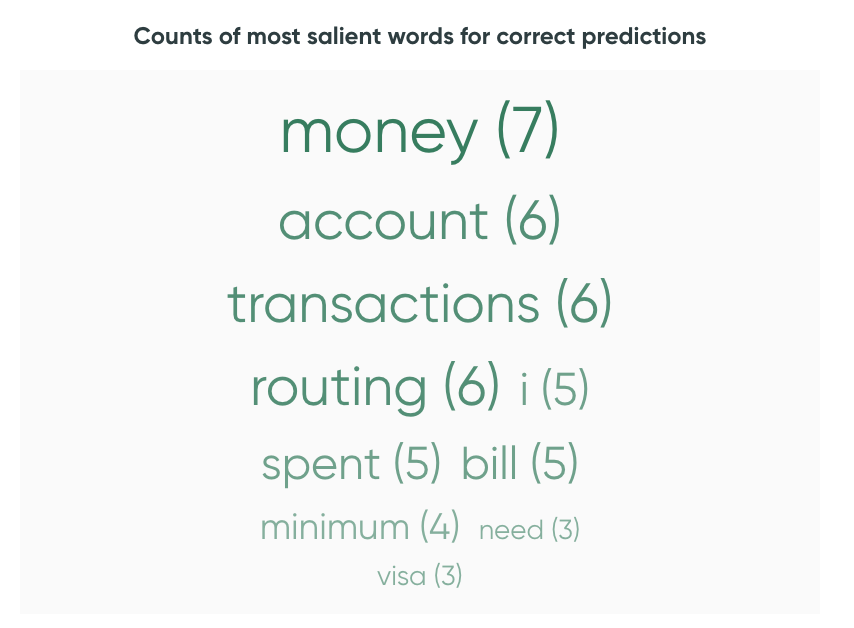
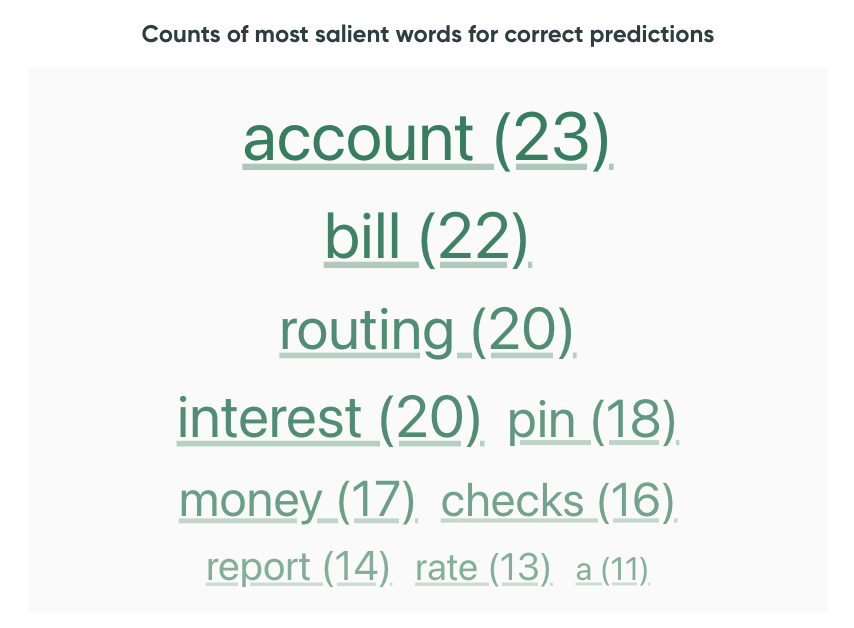
Polish top words links (#60)
* Clean up using destructuring assignment to avoid repeating `wordCount` 5 times
* Make clicking a top word a second time clear search
* Double underline of selected top word
* Document top words links
* Update screenshot
* Fix link styling in table rows

diff --git a/webapp/src/components/TopWords/TopWords.tsx b/webapp/src/components/TopWords/TopWords.tsx
@@ -77,33 +77,32 @@ const TopWords: React.FC<Props> = ({
             No word count data.
           </Typography>
         ) : (
-          wordCounts.map((wordCount, index) => (
+          wordCounts.map(({ word, count }, index) => (
             <Link
               key={index}
               component={RouterLink}
               to={`${baseUrl}${constructSearchString({
                 ...filters,
-                utterance: wordCount.word,
+                utterance: filters.utterance === word ? undefined : word,
                 ...pagination,
                 ...pipeline,
               })}`}
               color={theme.palette[palette].dark}
               display="block"
               fontSize={`${Math.max(
-                maxFontSizeInEm * wordCount.count * normalizingScaleFactor,
+                maxFontSizeInEm * count * normalizingScaleFactor,
                 minFontSizeInEm
               )}em`}
               marginLeft={1}
               marginRight={1}
               sx={{
-                opacity: Math.max(
-                  wordCount.count * normalizingScaleFactor,
-                  minOpacity
-                ),
+                opacity: Math.max(count * normalizingScaleFactor, minOpacity),
+                textDecorationStyle:
+                  filters.utterance === word ? "double" : undefined,
               }}
               whiteSpace="nowrap"
             >
-              {`${wordCount.word} (${wordCount.count})`}
+              {`${word} (${count})`}
             </Link>
           ))
         )}

diff --git a/webapp/src/components/Analysis/UtterancesTable.tsx b/webapp/src/components/Analysis/UtterancesTable.tsx
@@ -336,7 +336,7 @@ const UtterancesTable: React.FC<Props> = ({
   const searchString = constructSearchString(pipeline);
   const RowLink = (props: RowProps<Row>) => (
     <Link
-      style={{ color: "unset" }}
+      style={{ color: "unset", textDecoration: "unset" }}
       to={`/${jobId}/dataset_splits/${datasetSplitName}/utterances/${props.row.id}${searchString}`}
     >
       <GridRow {...props} />

diff --git a/webapp/src/components/Utterance/SimilarUtterances.tsx b/webapp/src/components/Utterance/SimilarUtterances.tsx
@@ -123,7 +123,7 @@ const SimilarUtterances: React.FC<Props> = ({
   const searchString = constructSearchString(pipeline);
   const RowLink = (props: RowProps<Row>) => (
     <Link
-      style={{ color: "unset" }}
+      style={{ color: "unset", textDecoration: "unset" }}
       to={`${baseUrl}/${props.row.id}${searchString}`}
     >
       <GridRow {...props} />

diff --git a/docs/docs/user-guide/exploration-space/performance-overview.md b/docs/docs/user-guide/exploration-space/performance-overview.md
@@ -46,6 +46,9 @@ while incorrect predictions include `Incorrect & Predicted` and `Incorrect & Rej
 clouds change depending on the filters and indicate the frequency of each important word across all
 filtered utterances.
 
+Clicking on a word will filter utterances that contain it. Clicking it a second
+time will clear that search filter, so does the ✗ in the `Search utterances` filter.
+
 ![Screenshot](../../_static/images/exploration-space/word-cloud.png){: style="width:400px"}
 
 !!! note "What does the word cloud count?"

diff --git a/docs/docs/user-guide/exploration-space/index.md b/docs/docs/user-guide/exploration-space/index.md
@@ -69,7 +69,7 @@ filters are listed below.
 
 ![Screenshot](../../_static/images/control-panel/utterances-search.png){: style="width:200px"}
 
-* **Search a particular string** to filter utterances that contains it.
+* **Search a particular string** to filter utterances that contain it.
 * Filter predictions based on their **confidence value**. You can specify a minimum and a maximum
   value.
 * Filter predictions according to their prediction [**outcomes**](../../key-concepts/outcomes.md).
